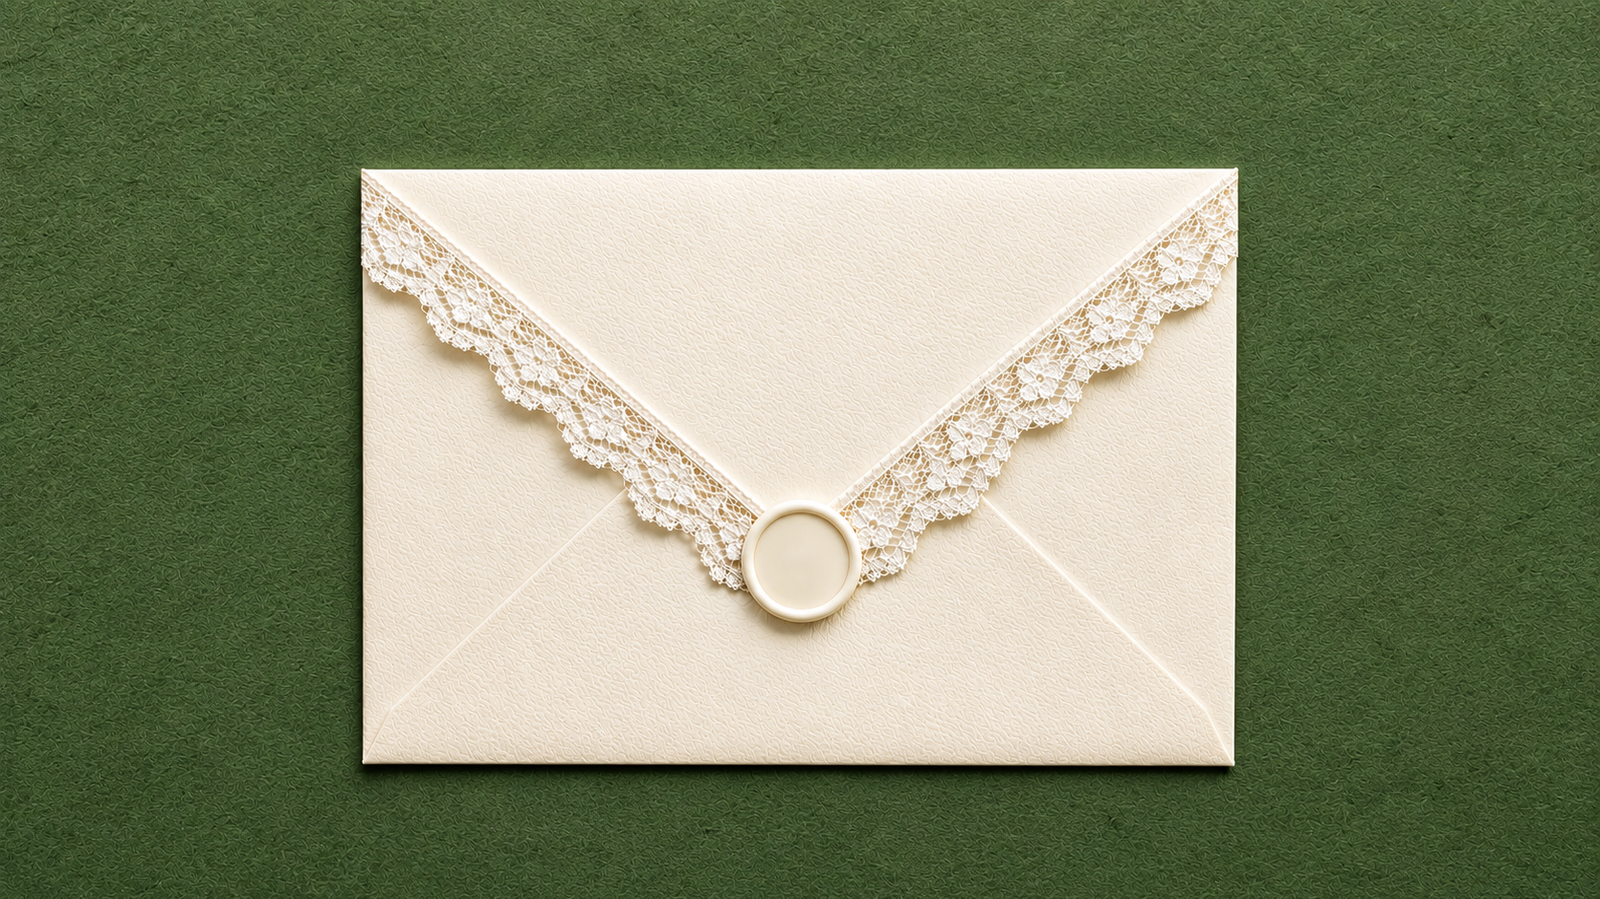
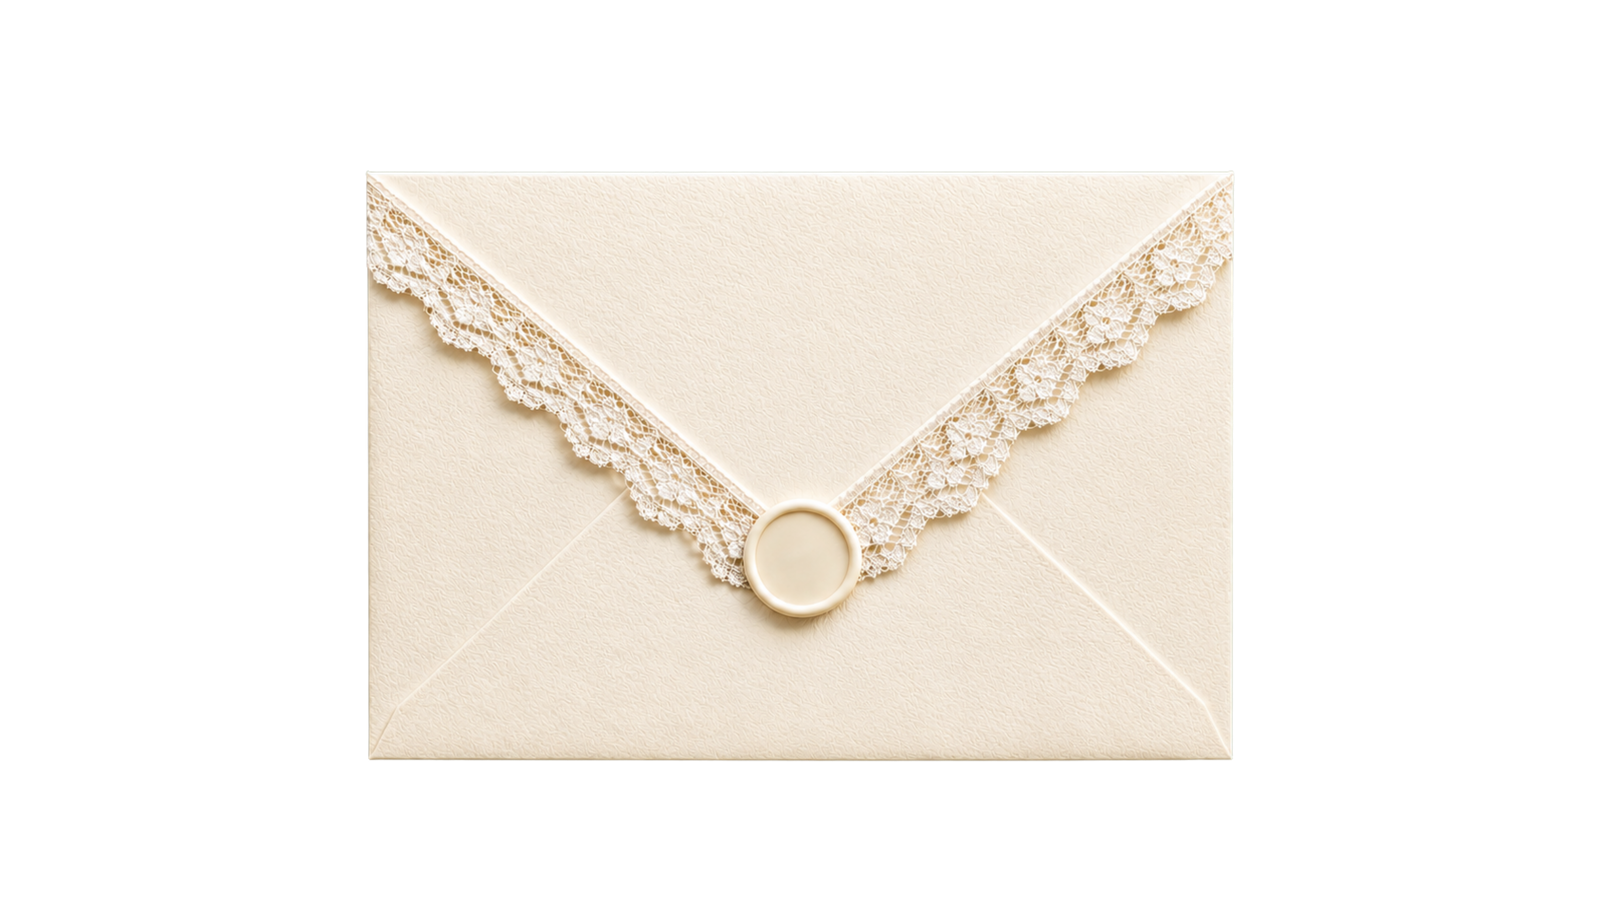
feat: env2 cover uses the owner's envelope cutout (alpha) floating on the theme background; seal overlay/hotspot remapped

diff --git a/src/styles/styles.css b/src/styles/styles.css
@@ -1847,12 +1847,12 @@ img.inv-seal-img--front { left: 48.28%; top: 89.56%; width: 10.15%; transform: t
    flat circle baked into env2-closed.png — position measured on the artwork
    (circle center ~50.9% / 65.4%, ~11% wide; overlay slightly larger to cover
    the baked seal's shadow). Keeps --sealed so the mobile art-nudge tracks. */
-img.inv-seal-img--env2 { left: 50%; top: 62%; width: 7.4%; transform: translate(-50%, -50%); }
+img.inv-seal-img--env2 { left: 50.1%; top: 62.5%; width: 7.7%; transform: translate(-50%, -50%); }
 /* Envelope 2's seal is ROUND and a touch lower than olive's oval, so size the
    click hotspot + pulse ring to match it (olive's is a tall 13%x26% oval at
    49.4%/56.99% — too big + off-centre here). Higher specificity than the mobile
    .eg-sealed rule so it wins everywhere. */
-[data-theme="envelope2"] .eg-sealed .inv-seal-hotspot { left: 50%; top: 62%; width: 7.4%; height: 13.2%; transform: translate(-50%, -50%); }
+[data-theme="envelope2"] .eg-sealed .inv-seal-hotspot { left: 50.1%; top: 62.5%; width: 7.7%; height: 13.7%; transform: translate(-50%, -50%); }
 .inv-seal-hotspot {
   position: absolute; left: 49.4%; top: 56.99%; width: 13%; height: 26%;
   transform: translate(-50%, -50%); border: 0; background: transparent; padding: 0; margin: 0;